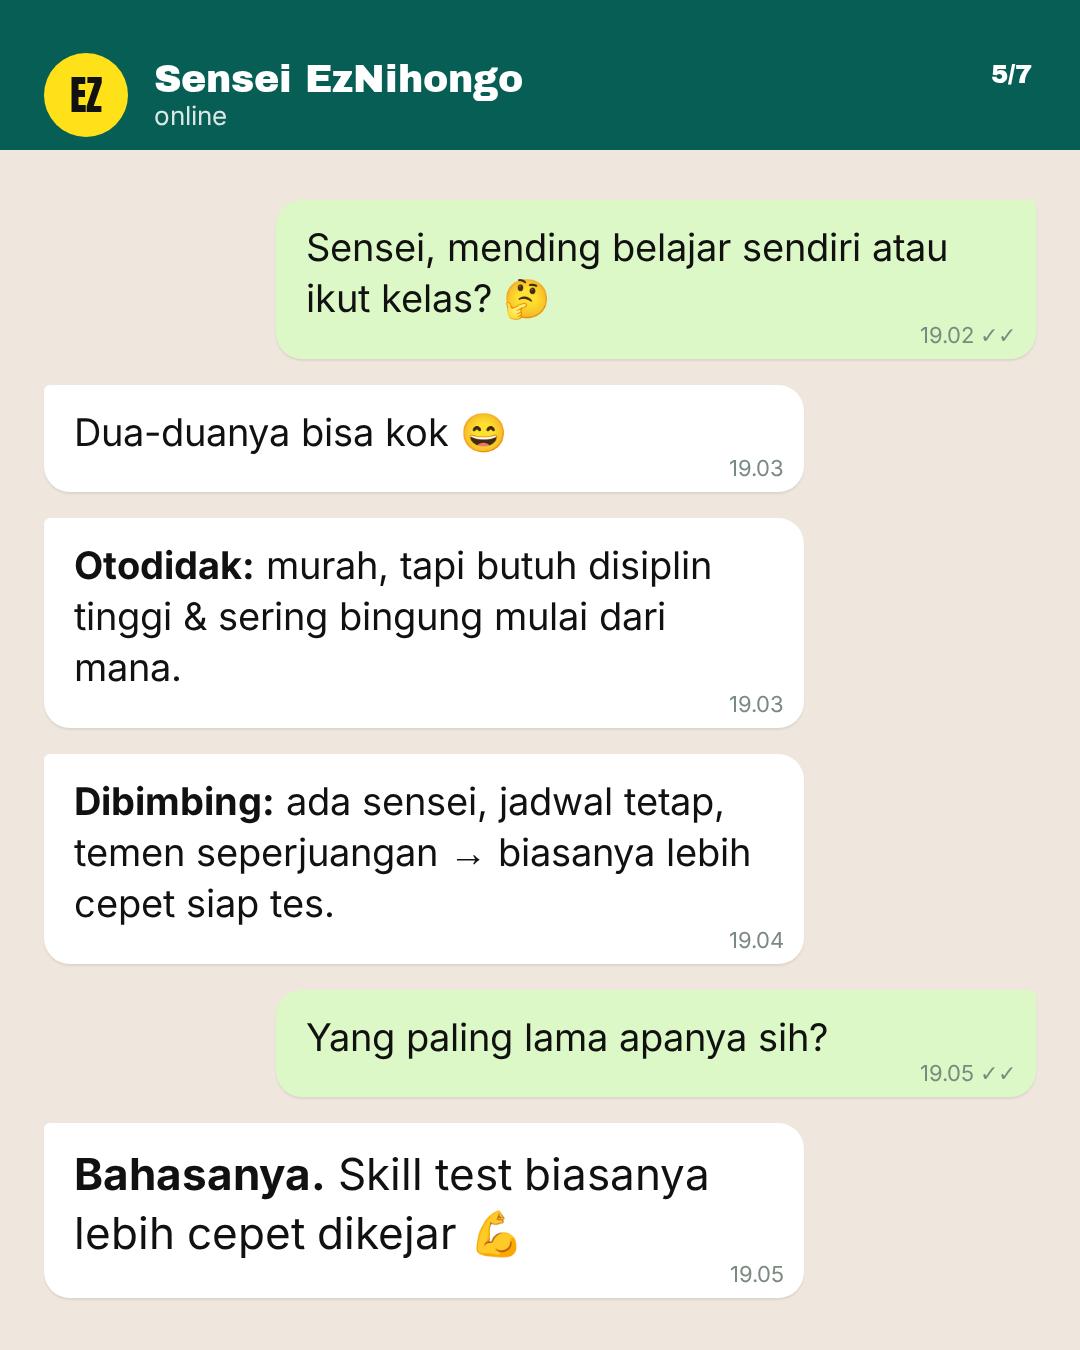
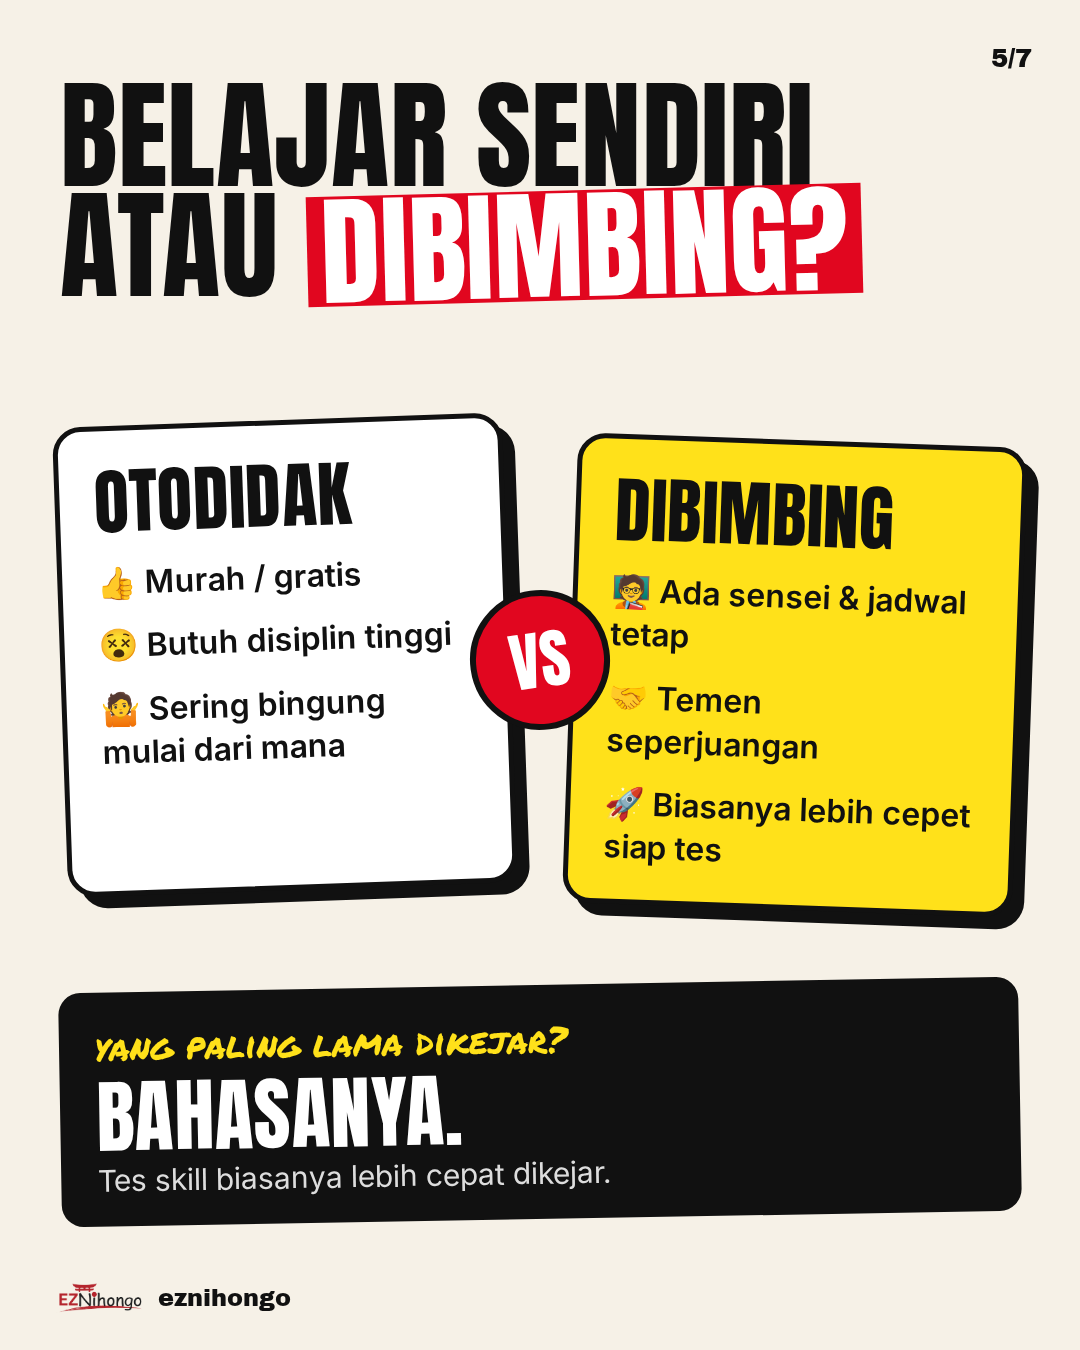
Carousel: slide 5 chat WA diganti perbandingan otodidak vs dibimbing
Claude-Session: https://claude.ai/code/session_01C3EzK71sv3fG4UwHrQoVjw

diff --git a/marketing/carousel-mandiri/carousel.html b/marketing/carousel-mandiri/carousel.html
@@ -122,18 +122,30 @@ svg.d{position:absolute;overflow:visible}
   <div class="handle"><img src="logo-a.png">eznihongo</div>
 </section>
 
-<!-- 5 CHAT WA — otodidak vs bimbingan -->
-<section class="s wa" id="s5">
-  <div class="bar"><div class="av">EZ</div><div><div style="font-family:'Archivo Black';font-size:38px">Sensei EzNihongo</div><div style="font-size:26px;opacity:.85">online</div></div></div>
-  <div class="page" style="color:#fff;top:60px">5/7</div>
-  <div style="padding-top:50px">
-    <div class="bub out">Sensei, mending belajar sendiri atau ikut kelas? 🤔<small>19.02 ✓✓</small></div>
-    <div class="bub in">Dua-duanya bisa kok 😄<small>19.03</small></div>
-    <div class="bub in"><b>Otodidak:</b> murah, tapi butuh disiplin tinggi &amp; sering bingung mulai dari mana.<small>19.03</small></div>
-    <div class="bub in"><b>Dibimbing:</b> ada sensei, jadwal tetap, temen seperjuangan → biasanya lebih cepet siap tes.<small>19.04</small></div>
-    <div class="bub out">Yang paling lama apanya sih?<small>19.05 ✓✓</small></div>
-    <div class="bub in" style="font-size:44px"><b>Bahasanya.</b> Skill test biasanya lebih cepet dikejar 💪<small>19.05</small></div>
+<!-- 5 VERSUS — otodidak vs dibimbing -->
+<section class="s" id="s5" style="background:#f6f1e7">
+  <div class="page">5/7</div>
+  <div class="A" style="position:absolute;left:60px;top:80px;font-size:120px">Belajar sendiri<br>atau <span class="hlr">dibimbing?</span></div>
+  <div style="position:absolute;left:60px;top:420px;width:450px;height:470px;background:#fff;border:5px solid var(--k);border-radius:28px;box-shadow:12px 12px 0 var(--k);padding:38px 34px;transform:rotate(-2deg)">
+    <div class="A" style="font-size:72px">Otodidak</div>
+    <div style="margin-top:26px;font-size:32px;line-height:1.35;font-weight:600">
+      <div style="margin-bottom:20px">👍 Murah / gratis</div>
+      <div style="margin-bottom:20px">😵 Butuh disiplin tinggi</div>
+      <div>🤷 Sering bingung mulai dari mana</div></div>
   </div>
+  <div style="position:absolute;left:570px;top:440px;width:450px;height:470px;background:var(--y);border:5px solid var(--k);border-radius:28px;box-shadow:12px 12px 0 var(--k);padding:38px 34px;transform:rotate(2deg)">
+    <div class="A" style="font-size:72px">Dibimbing</div>
+    <div style="margin-top:26px;font-size:32px;line-height:1.35;font-weight:600">
+      <div style="margin-bottom:20px">🧑🏫 Ada sensei &amp; jadwal tetap</div>
+      <div style="margin-bottom:20px">🤝 Temen seperjuangan</div>
+      <div>🚀 Biasanya lebih cepet siap tes</div></div>
+  </div>
+  <div style="position:absolute;left:470px;top:590px;width:140px;height:140px;border-radius:50%;background:var(--r);color:#fff;border:6px solid var(--k);display:grid;place-items:center;font-family:Anton;font-size:64px;transform:rotate(-8deg)">VS</div>
+  <div style="position:absolute;left:60px;right:60px;top:985px;background:var(--k);color:#fff;border-radius:22px;padding:28px 36px;transform:rotate(-1deg)">
+    <span class="M" style="color:var(--y);font-size:36px">yang paling lama dikejar?</span>
+    <div class="A" style="font-size:80px;margin-top:8px">Bahasanya.</div><div style="font-size:30px;margin-top:8px;color:#ddd">Tes skill biasanya lebih cepat dikejar.</div>
+  </div>
+  <div class="handle" style="bottom:30px"><img src="logo-a.png">eznihongo</div>
 </section>
 
 <!-- 6 ALUR — 3 tiket langkah -->
